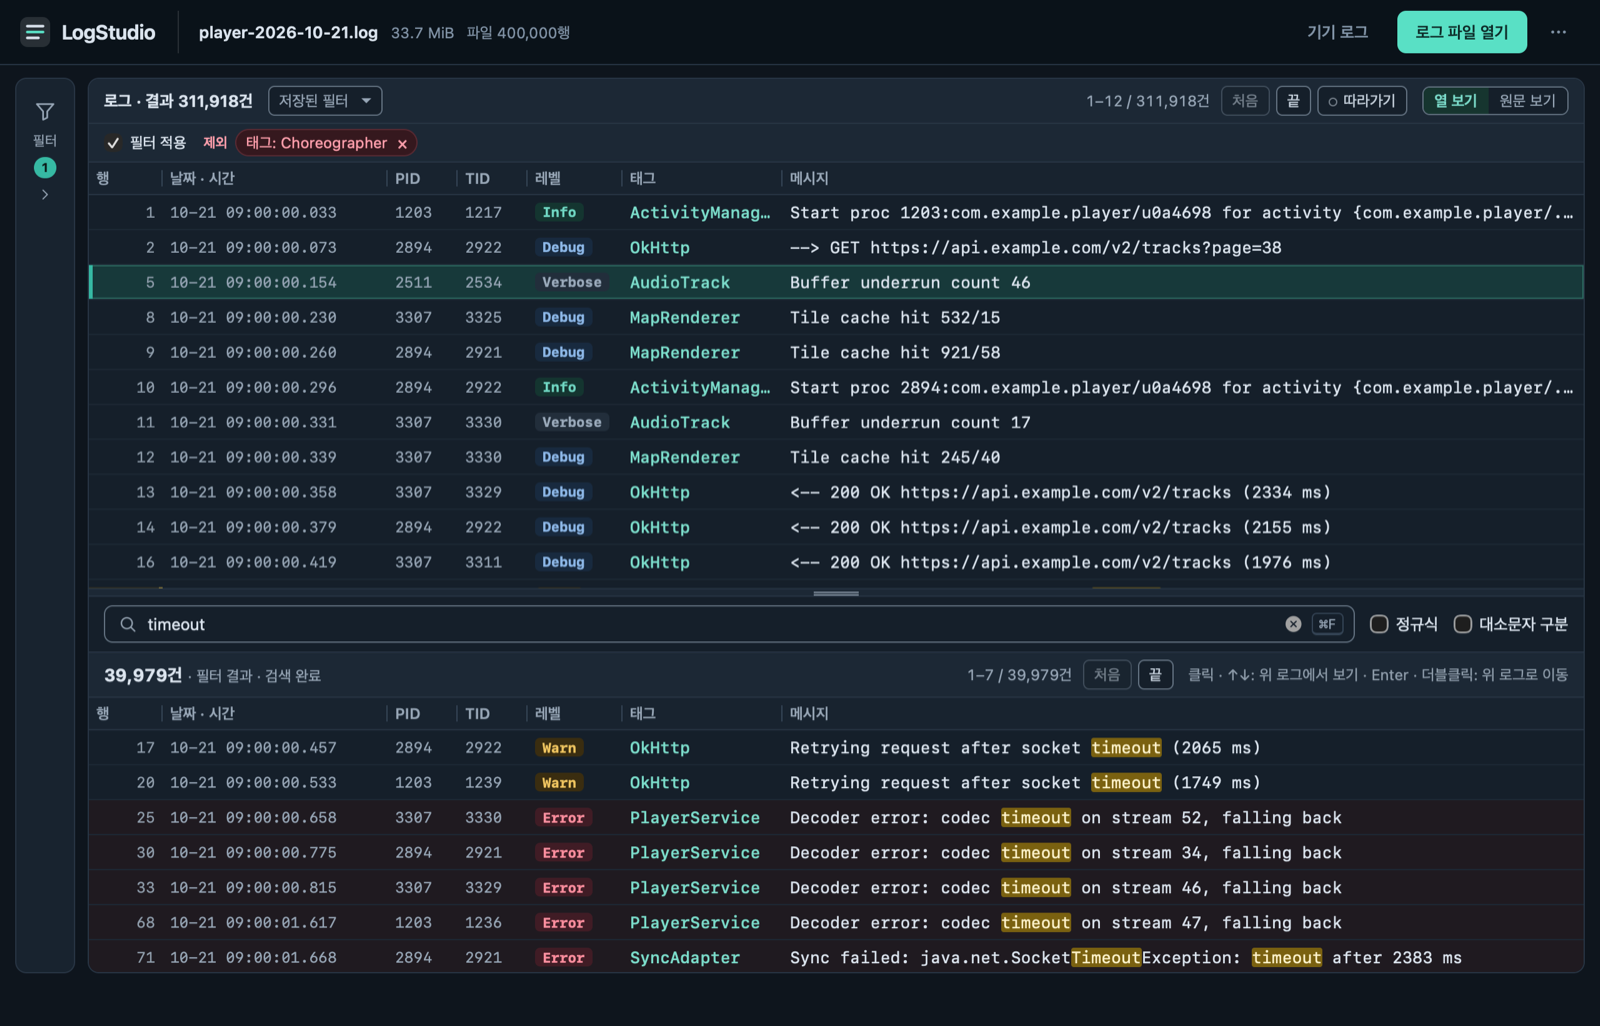
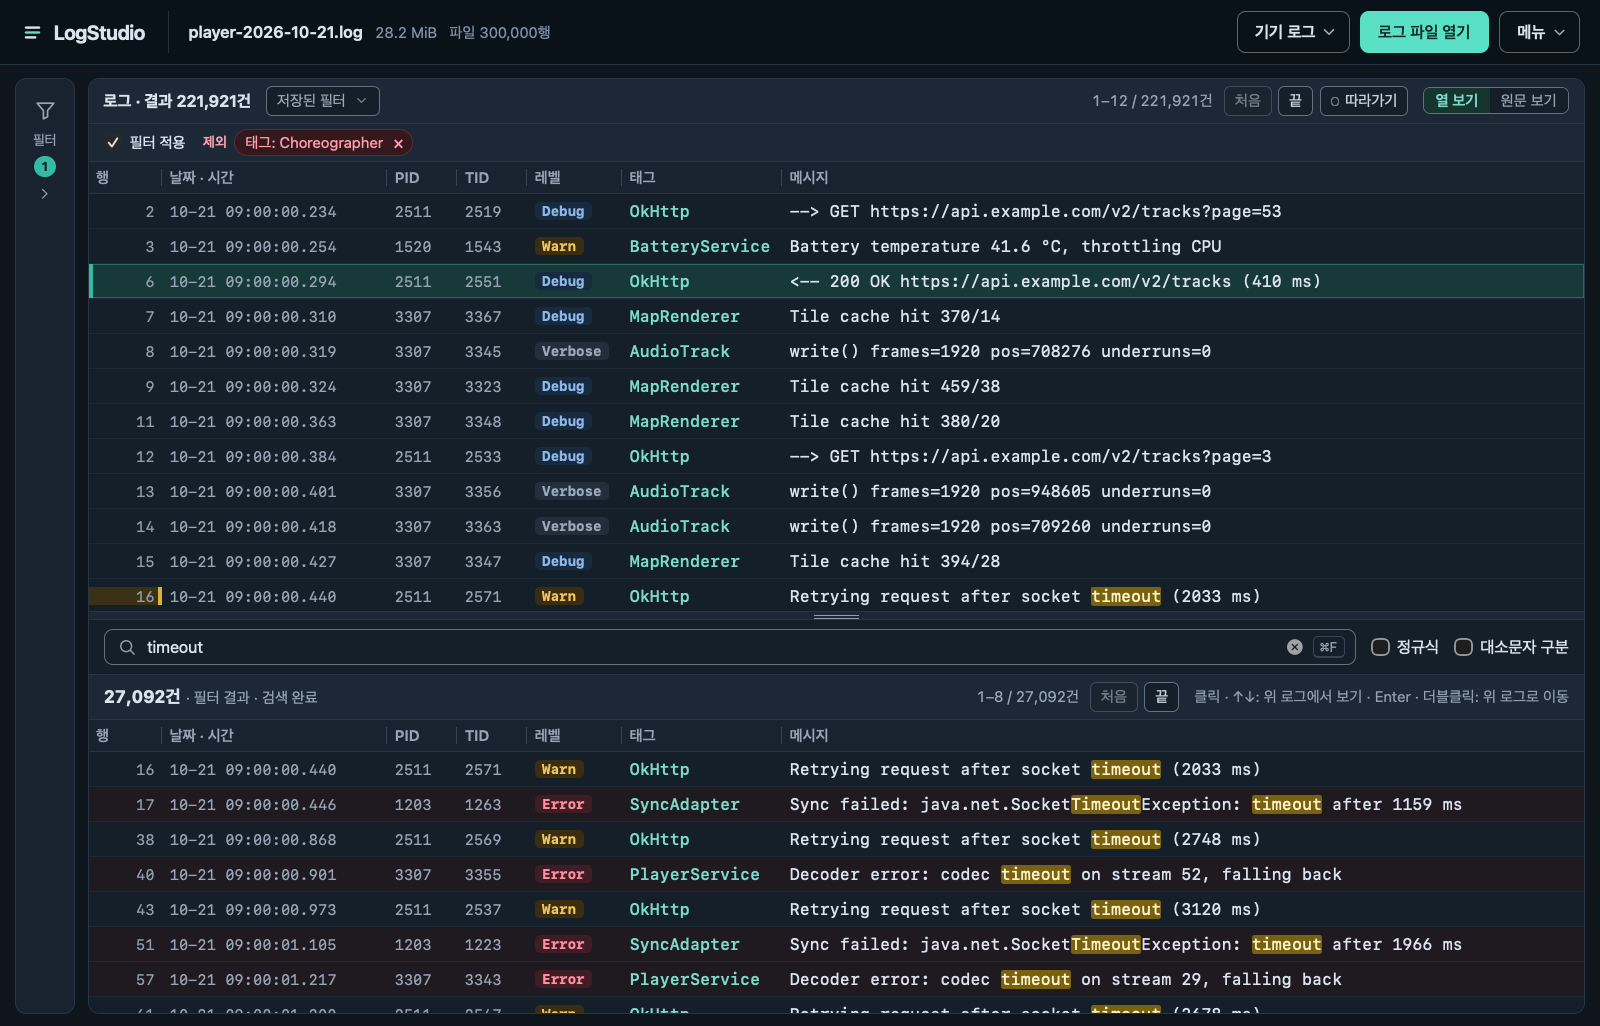
docs: update the intro video and screenshots for the top bar's menu buttons
The README's intro video and its two screenshots still showed the ⋯ button,
the borderless 기기 로그 button and the logo on a tile. Both now show the
current top bar: the bare logo, 기기 로그 and 메뉴 as bordered buttons with
a caret, and the same caret on 저장된 필터.

The video keeps its captions, scenes and length. Its filter scene also
follows the app in details it had drawn differently: an empty condition's
editor is titled 새 조건, a new showing condition lists above the excluding
one, checked boxes are filled, and 자동 숨김 is on as by default.

The screenshots come from the app itself with a synthetic Android log.

diff --git a/README.md b/README.md
@@ -4,7 +4,7 @@
 
 [Windows·macOS 다운로드](https://github.com/yhwanp/LogStudio/releases/latest) · [사용 설명서](docs/USER_GUIDE.md)
 
-https://github.com/user-attachments/assets/8667f925-cfe9-41f2-af76-31c8e7babd5a
+https://github.com/user-attachments/assets/2eb837eb-e3cb-4166-a995-1067fc0c378f
 
 <picture>
   <source media="(prefers-color-scheme: dark)" srcset="docs/images/main-dark.png">
